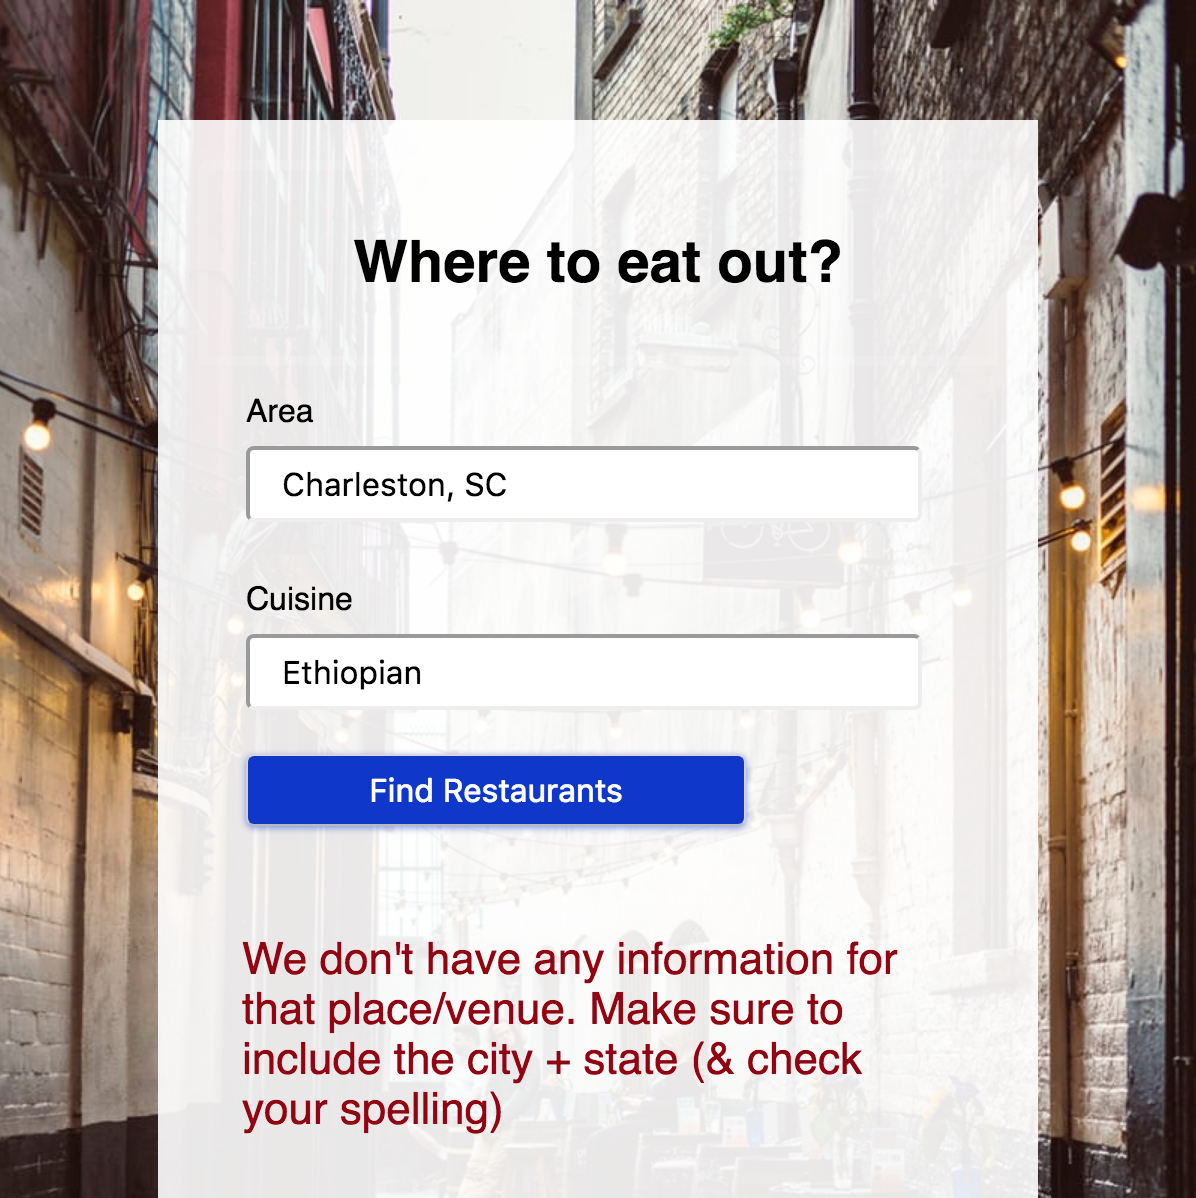
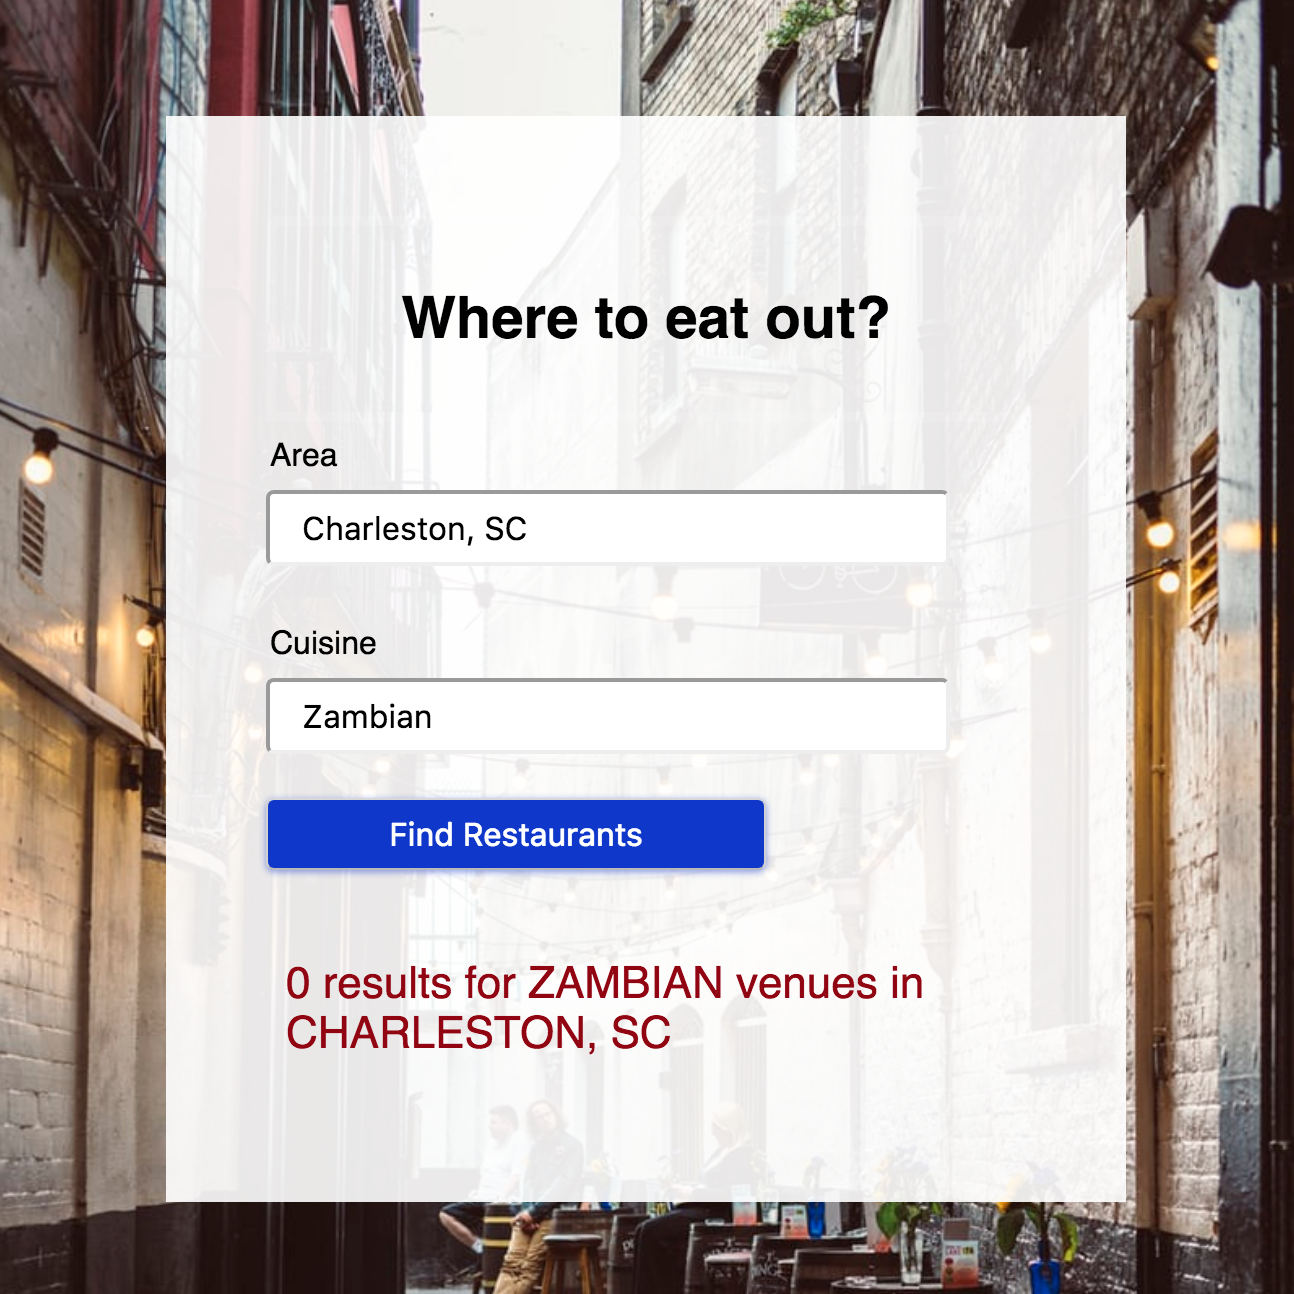
update error message for 0 results scenario

diff --git a/index.js b/index.js
@@ -168,7 +168,7 @@ function getFourSqResults(location, cuisine) {
       };
 
       if ($.isEmptyObject(venueInformation.venuesObj)) {
-        throw new Error('We don\'t have any information for that place/venue.')
+        throw new Error(`0 results for ${venueInformation.cuisine.toUpperCase()} venues in ${venueInformation.location.toUpperCase()}`)
       };
 
       displayResults(venueInformation);
